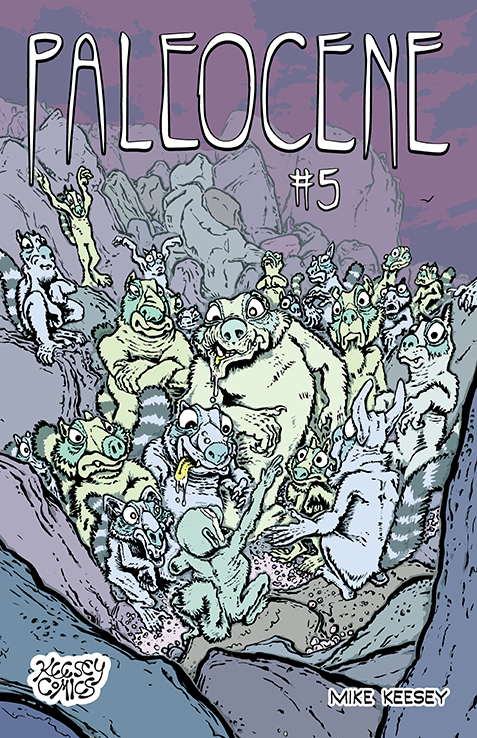
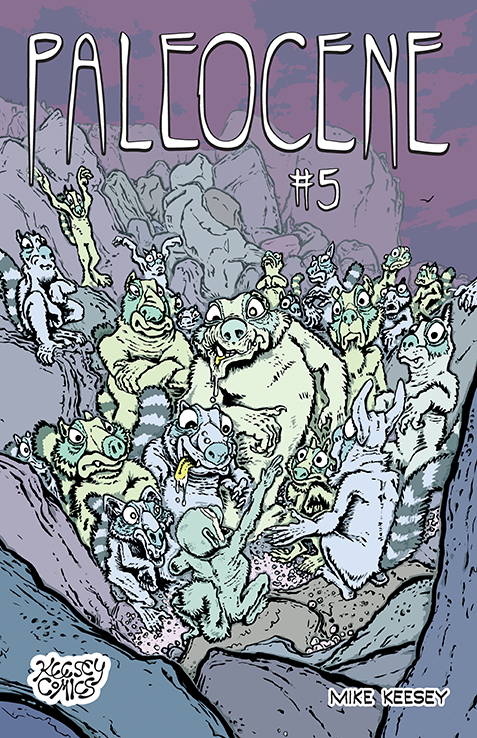
v2.10.3

diff --git a/CHANGELOG.md b/CHANGELOG.md
@@ -19,13 +19,19 @@ and this project adheres to [Semantic Versioning](https://semver.org/spec/v2.0.0
 
 ### Security
 
-## [2.10.2] - 2024-02-07
+## [2.10.3] - 2025-03-11
+
+### Changed
+
+-   Slight update to cover image for _Paleocene #5_.
+
+## [2.10.2] - 2025-02-07
 
 ### Changed
 
 -   Updated cover images of _Paleocene #1–2_ to include Keesey Comics logo.
 
-## [2.10.1] - 2024-02-07
+## [2.10.1] - 2025-02-07
 
 ### Added
 
@@ -40,7 +46,7 @@ and this project adheres to [Semantic Versioning](https://semver.org/spec/v2.0.0
 
 -   Dependency updates.
 
-## [2.10.0] - 2024-02-07
+## [2.10.0] - 2025-02-07
 
 ### Added
 
